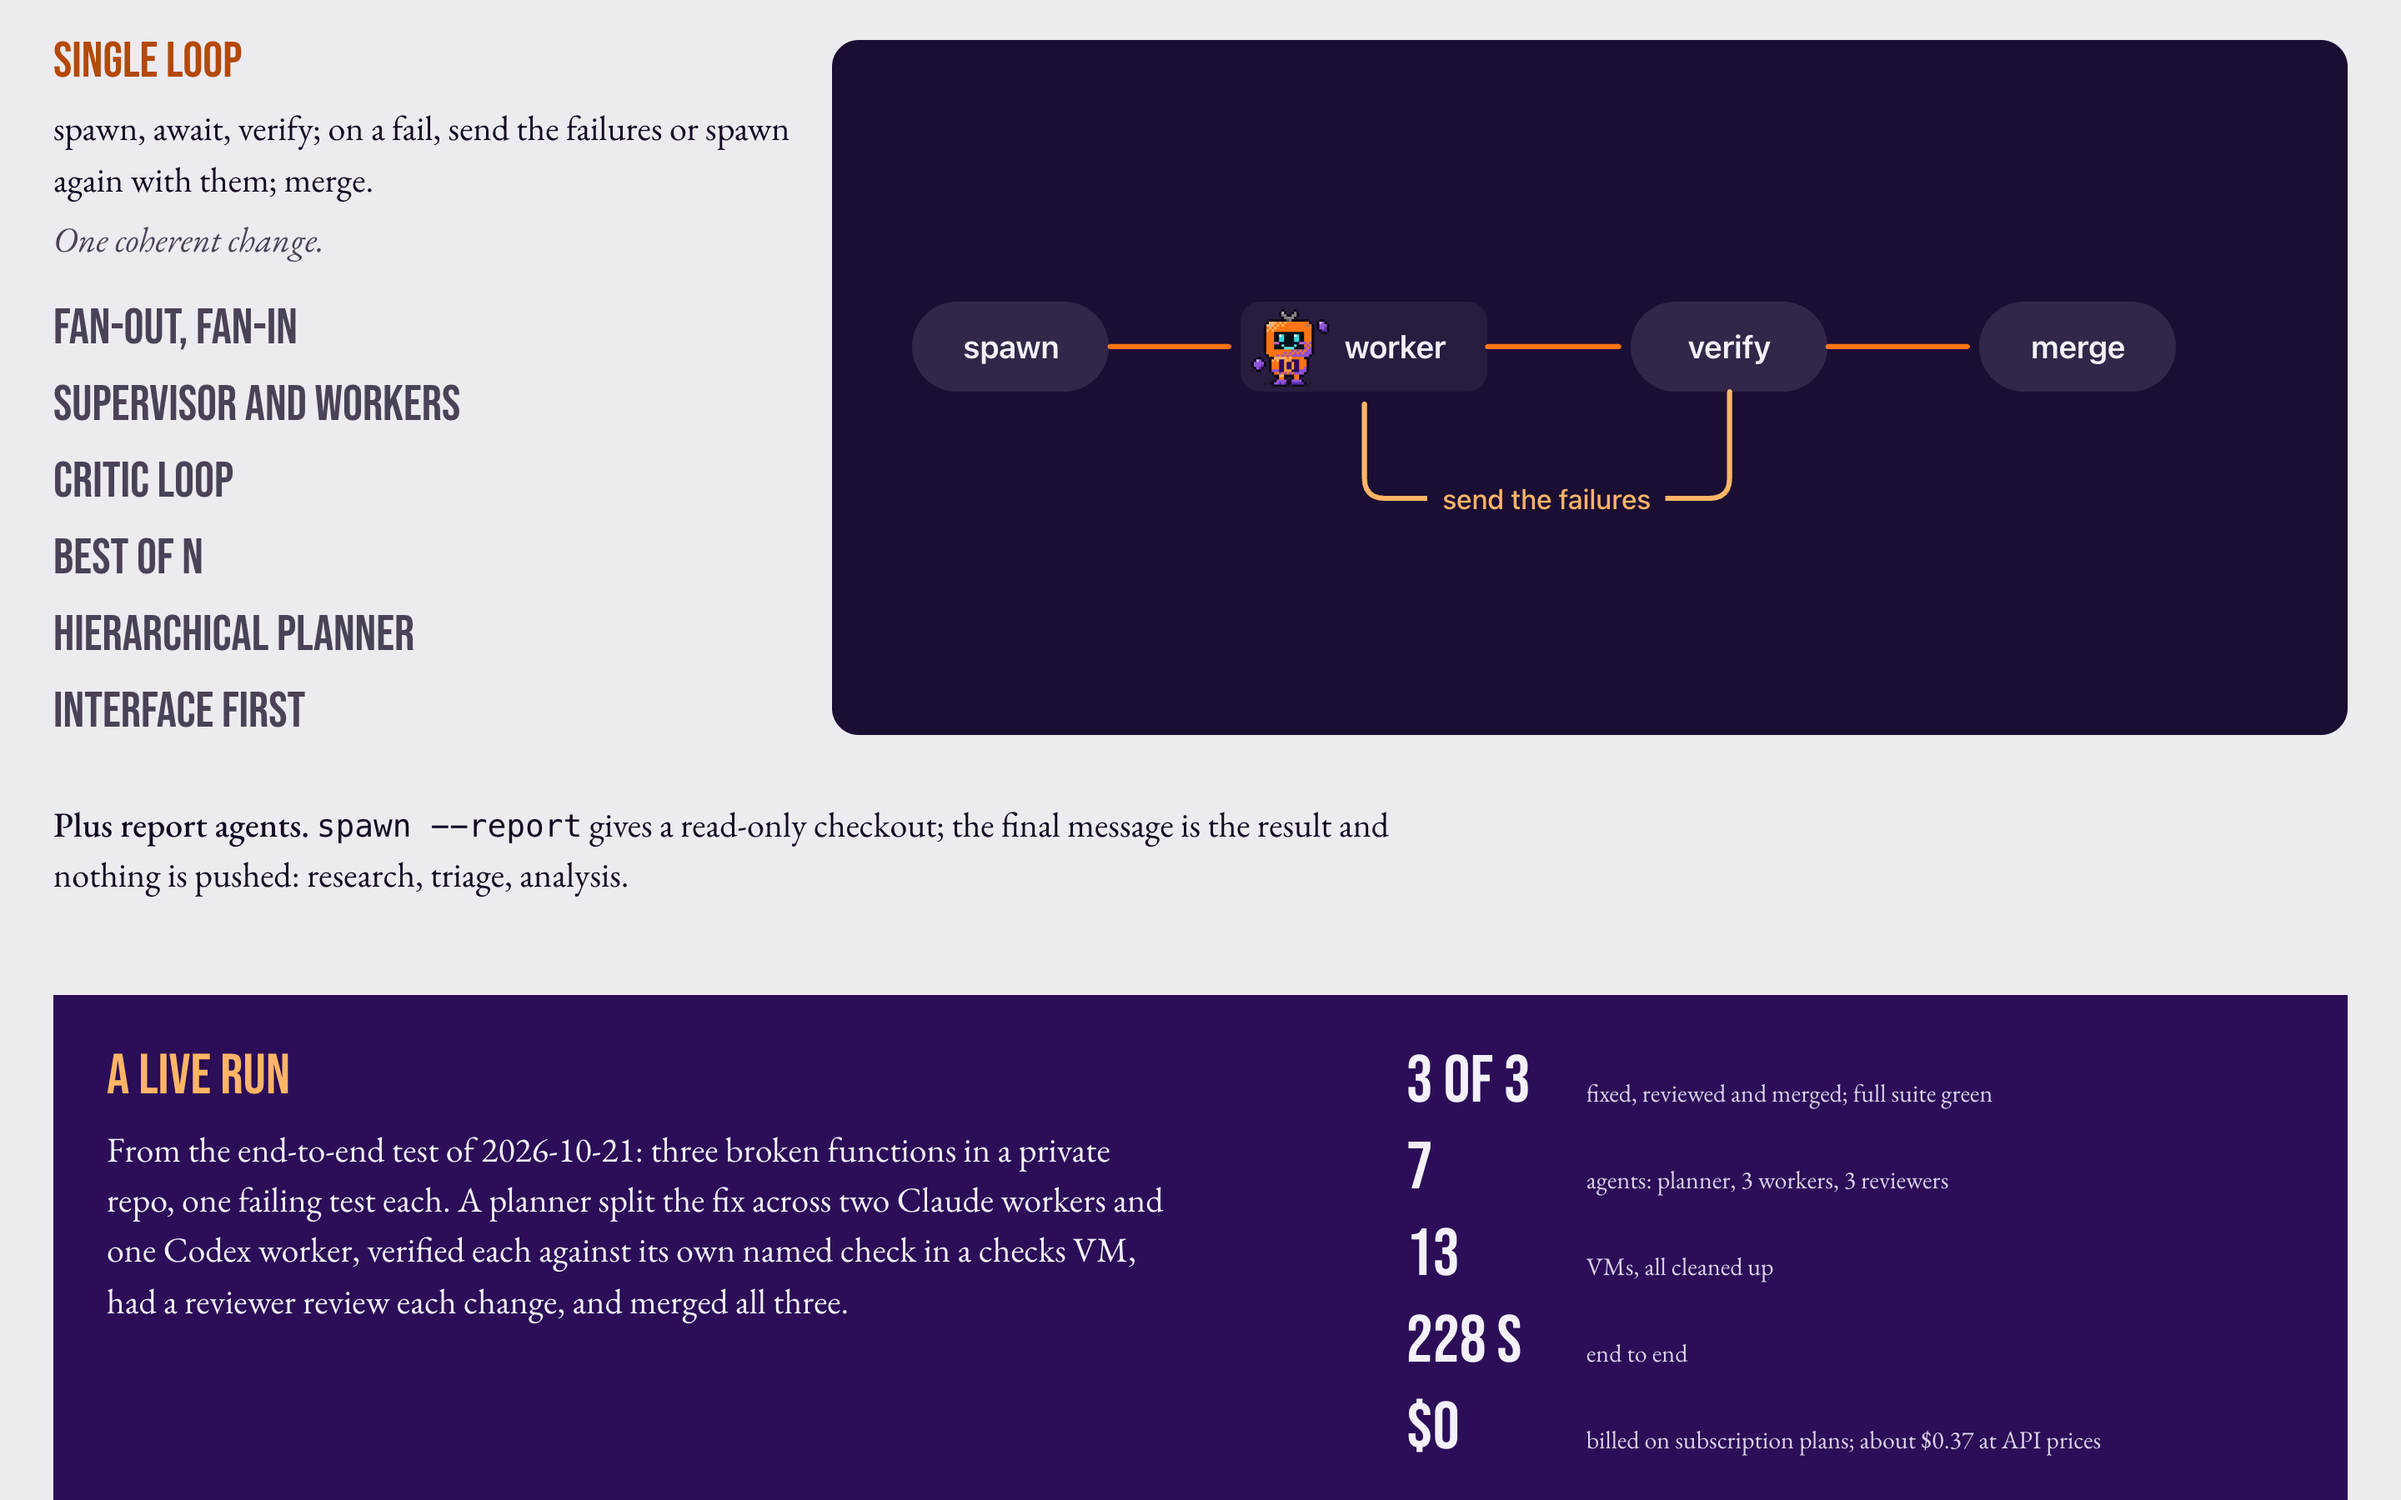
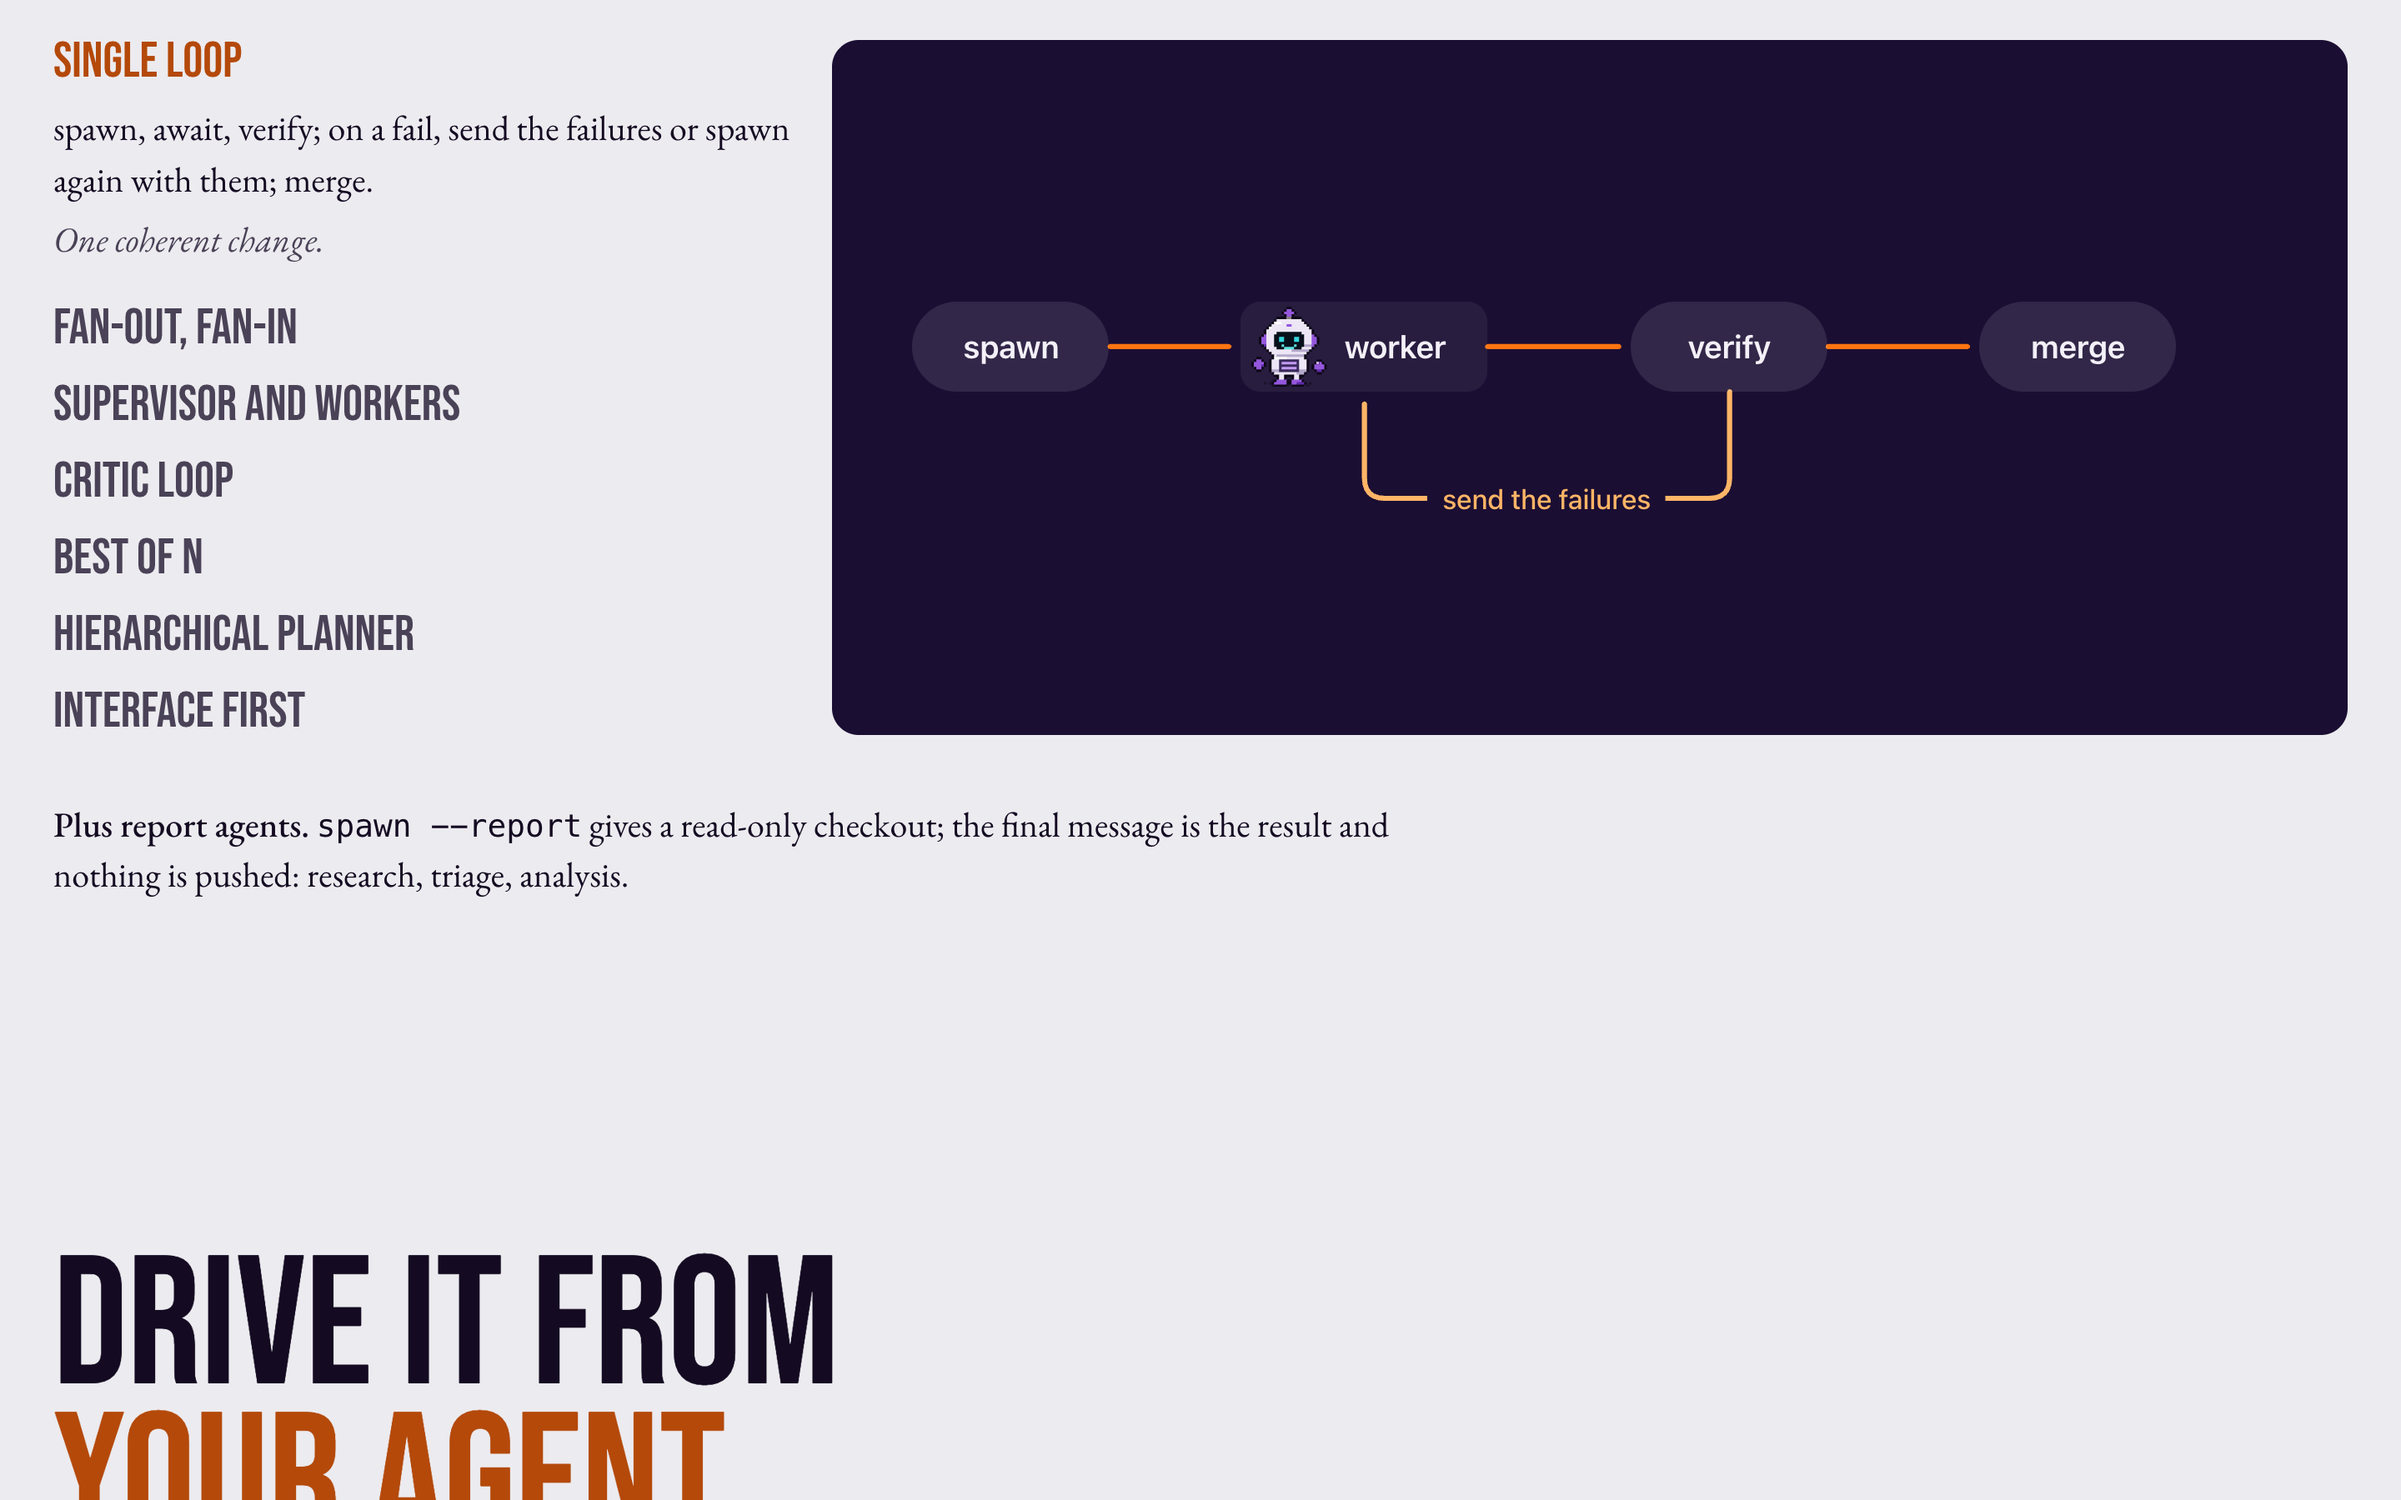
site: drop the "A live run" card from Patterns

diff --git a/site/app/globals.css b/site/app/globals.css
@@ -270,13 +270,6 @@
 .pt__list .use { font-style: italic; color: var(--color-muted); }
 .pt__plus { margin: 32px 0 0; max-width: 80ch; }
 .pt__plus b { font-weight: 500; }
-.case { background: var(--color-stage-1); color: var(--color-on-dark); padding: 28px; }
-.case h3 { margin: 0 0 12px; font: 400 34px/1 var(--font-display); text-transform: uppercase; color: var(--color-accent-light); }
-.case p { margin: 0; }
-.case dl { margin: 22px 0 0; display: grid; gap: 12px; }
-.case dl div { display: grid; grid-template-columns: 96px 1fr; gap: 12px; align-items: baseline; }
-.case dt { font: 400 40px/1 var(--font-display); }
-.case dd { margin: 0; font-size: var(--text-small); color: var(--color-on-dark-soft); }
 
 .band { background: var(--color-stage-1); color: var(--color-on-dark); padding: 140px var(--spacing-gutter) 150px; }
 .band .big span + span { color: var(--color-accent-light); }
@@ -1138,19 +1131,14 @@ html:not(.js) .stage__title { display: block; }
   @keyframes pp-in { from { opacity: 0; transform: translateY(4px); } }
   .pp__label { animation-name: pp-fade; } @keyframes pp-fade { from { opacity: 0; } }
   @media (prefers-reduced-motion: reduce) { .pp__edge, .pp__node, .pp__label, .pp__note { animation: none; } }
-  .case { margin-top: 56px; display: grid; grid-template-columns: repeat(12, 1fr); gap: 24px; position: static; padding: 32px; }
-  .case__text { grid-column: 1 / span 6; }
-  .case dl { grid-column: 8 / span 5; margin: 0; }
   @media (max-width: 1100px) {
     .pp__list, .pp__fig { grid-column: 1 / -1; width: 100%; box-sizing: border-box; }
     .pp__fig { position: static; order: -1; }
-    .case__text, .case dl { grid-column: 1 / -1; }
   }
   @media (max-width: 760px) {
     .pp { display: flex; flex-direction: column; align-items: stretch; gap: 20px; margin-top: 32px; }
     .pp__fig { padding: 12px; overflow-x: auto; overscroll-behavior-x: contain; }
     .pp__canvas { min-width: 600px; }
     .pp__item button { font-size: 26px; }
-    .case { display: block; padding: 22px; }
   }
 }

diff --git a/site/components/Patterns.tsx b/site/components/Patterns.tsx
@@ -1,14 +1,7 @@
 import { PatternPicker } from "./PatternPicker";
 
-// The seven patterns live in PatternPicker (plugins/capcomd/skills/capcomd-orchestration/SKILL.md); the live run is README "A real run".
+// The seven patterns live in PatternPicker (plugins/capcomd/skills/capcomd-orchestration/SKILL.md).
 const PRIMS = ["run new", "spawn", "await", "wait-any", "send", "cancel", "verify", "merge"];
-const LIVE: Array<[string, string]> = [
-  ["3 of 3", "fixed, reviewed and merged; full suite green"],
-  ["7", "agents: planner, 3 workers, 3 reviewers"],
-  ["13", "VMs, all cleaned up"],
-  ["228 s", "end to end"],
-  ["$0", "billed on subscription plans; about $0.37 at API prices"],
-];
 
 export function Patterns() {
   return (
@@ -20,13 +13,6 @@ export function Patterns() {
       </p>
       <PatternPicker />
       <p className="pt__plus" data-reveal><b>Plus report agents.</b> <code>spawn --report</code> gives a read-only checkout; the final message is the result and nothing is pushed: research, triage, analysis.</p>
-      <aside className="case" data-reveal aria-labelledby="case-title">
-        <div className="case__text">
-          <h3 id="case-title">A live run</h3>
-          <p>From the end-to-end test of 2026-10-21: three broken functions in a private repo, one failing test each. A planner split the fix across two Claude workers and one Codex worker, verified each against its own named check in a checks VM, had a reviewer review each change, and merged all three.</p>
-        </div>
-        <dl>{LIVE.map(([dt, dd]) => <div key={dt}><dt>{dt}</dt><dd>{dd}</dd></div>)}</dl>
-      </aside>
     </section>
   );
 }
